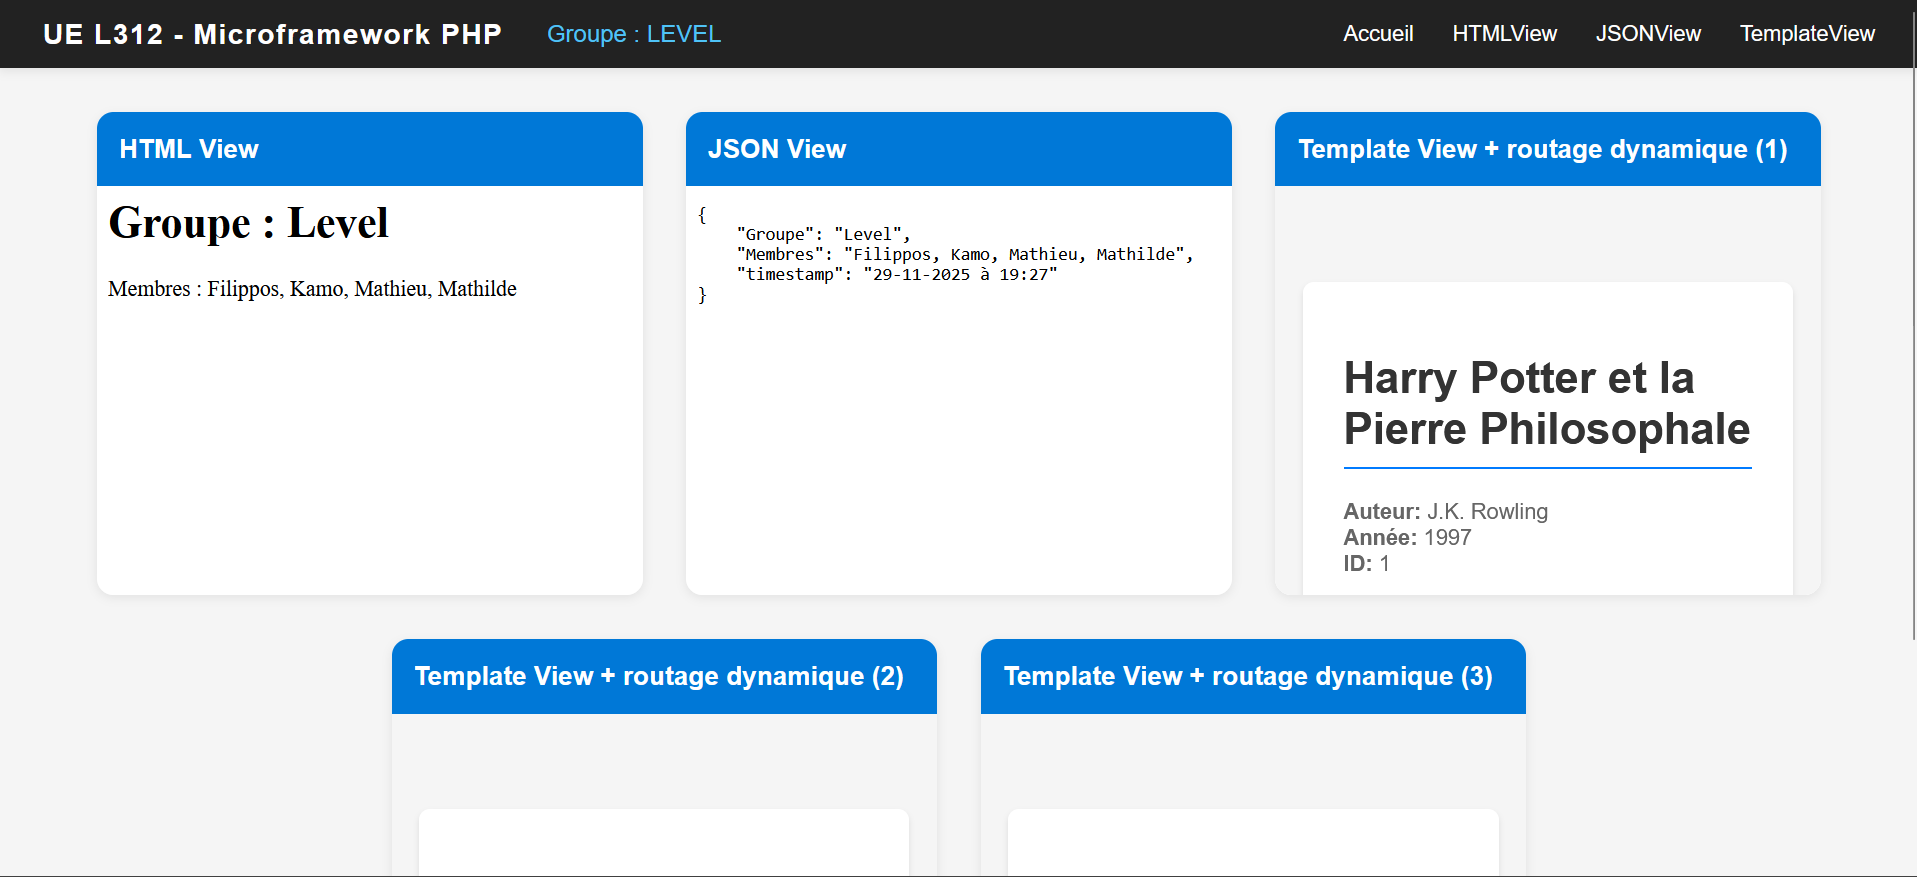
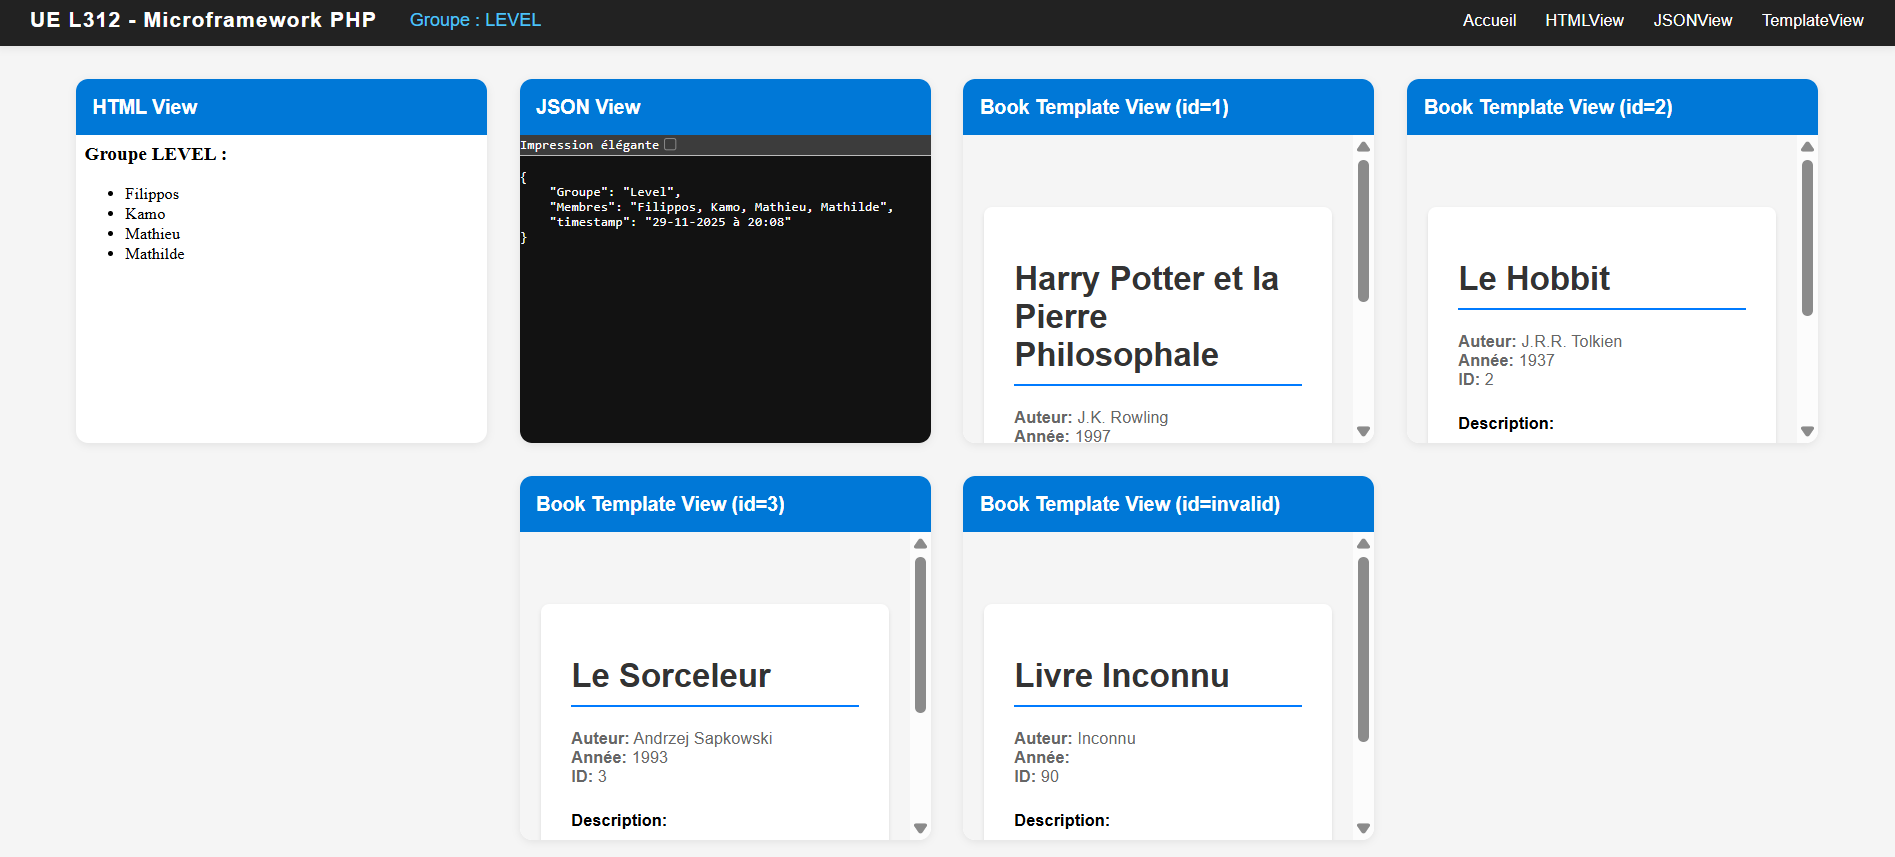
fix(README.md): clarify description of homepage template view and iframe integration

diff --git a/README.md b/README.md
@@ -56,7 +56,7 @@ Pour tester le bon fonctionnement, il faut se rendre à la racine du projet et l
 
 ![Terminal_serveur](docs/tests.png)
 
-La page d'accueil devrait afficher une templateView avec une liste de cartes de toutes les views de test implementées. Il est possible aussi de cliquer sur les liens de la navigation pour tester que le routage s'effectue correctement.
+La page d'accueil devrait afficher une templateView avec une liste de cartes de toutes les views de test implementées (intégrées à l'intérieur d' _iframes_). Il est possible aussi de cliquer sur les liens de la navigation pour tester que le routage s'effectue correctement pour chacune des views test.
 
 ![Homepage](docs/homePage.png)
 
